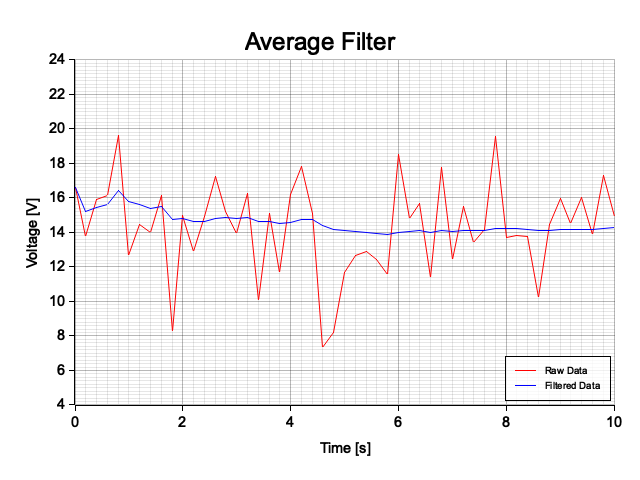
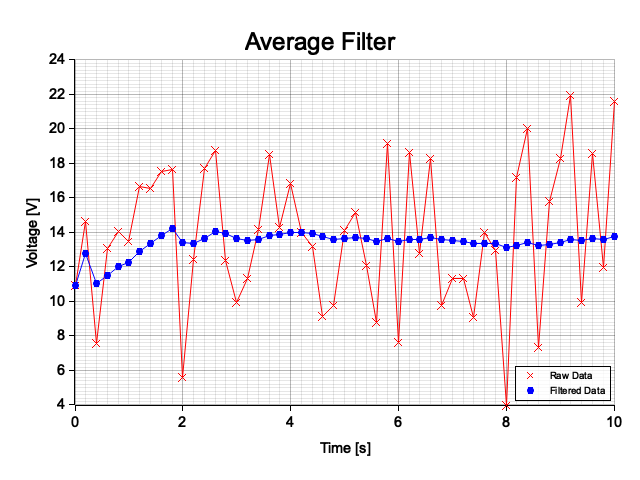
Plot with points and legend

diff --git a/src/main.rs b/src/main.rs
@@ -29,7 +29,7 @@ fn test_average_filter() {
         filtered_data_V.push(avg_filt.get_average());
     }
 
-    // plotters graphing configuration
+    // Build and save graph using plotters crate
     let root = BitMapBackend::new("./plots/AverageFilter.png", (640, 480)).into_drawing_area();
     let _ = root.fill(&WHITE);
 
@@ -45,9 +45,8 @@ fn test_average_filter() {
     // Configure mesh with axis labels and grid lines
     chart
         .configure_mesh()
-        // We can customize the maximum number of labels allowed for each axis
-        .x_labels(10)
-        .y_labels(11)
+        .x_labels(10) // increments of 1
+        .y_labels(11) // increments of 2
         .x_desc("Time [s]") // Label for the x-axis
         .y_desc("Voltage [V]") // Label for the y-axis
         .x_label_style(("sans-serif", 18).into_font())
@@ -57,7 +56,7 @@ fn test_average_filter() {
         .draw()
         .expect("configure_mesh() failed");
 
-    // Plot raw data with a red line
+    // Plot the raw data as a red line, then add points
     chart
         .draw_series(LineSeries::new(
             times_s
@@ -66,11 +65,22 @@ fn test_average_filter() {
                 .map(|(&x_val, &y_val)| (x_val, y_val)),
             &RED,
         ))
-        .expect("draw_series() raw data failed")
-        .label("Raw Data")
-        .legend(|(x, y)| PathElement::new(vec![(x, y), (x + 20, y)], &RED));
+        .expect("draw_series() LineSeries raw data failed");
 
-    // Plot filtered data with a blue line
+    chart
+        .draw_series(PointSeries::of_element(
+            times_s.iter().zip(raw_data_V.iter()).map(|(&x, &y)| (x, y)),
+            4, // Size of the points
+            &RED,
+            &|coord, size, style| {
+                return EmptyElement::at(coord) + Cross::new((0, 0), size, style.filled());
+            },
+        ))
+        .expect("draw_series() PointSeries raw data failed")
+        .label("Raw Data")
+        .legend(|(x, y)| EmptyElement::at((x + 10, y)) + Cross::new((0, 0), 3, RED.filled()));
+
+    // Plot the filtered data as a blue line, then add points
     chart
         .draw_series(LineSeries::new(
             times_s
@@ -79,13 +89,28 @@ fn test_average_filter() {
                 .map(|(&x_val, &y_val)| (x_val, y_val)),
             &BLUE,
         ))
-        .expect("draw_series() filtered data failed")
+        .expect("draw_series() LineSeries filtered data failed");
+
+    chart
+        .draw_series(PointSeries::of_element(
+            times_s
+                .iter()
+                .zip(filtered_data_V.iter())
+                .map(|(&x, &y)| (x, y)),
+            3, // Size of the points
+            &BLUE,
+            &|coord, size, style| {
+                return EmptyElement::at(coord) + Circle::new((0, 0), size, style.filled());
+            },
+        ))
+        .expect("draw_series() PointSeries raw data failed")
         .label("Filtered Data")
-        .legend(|(x, y)| PathElement::new(vec![(x, y), (x + 20, y)], &BLUE));
+        .legend(|(x, y)| EmptyElement::at((x + 10, y)) + Circle::new((0, 0), 3, BLUE.filled()));
 
     chart
         .configure_series_labels()
         .position(SeriesLabelPosition::LowerRight)
+        .margin(5)
         .background_style(&WHITE.mix(0.8))
         .border_style(&BLACK)
         .draw()
@@ -93,7 +118,7 @@ fn test_average_filter() {
 
     let _ = root.present();
 
-    println!("Average Filter test plot written: ./plots/AverageFilter.png");
+    println!("Average filter plot written: ./plots/AverageFilter.png");
 }
 
 fn main() {

diff --git a/src/sensor_spoofs.rs b/src/sensor_spoofs.rs
@@ -4,8 +4,8 @@ use rand_distr::{Distribution, Normal};
 pub fn get_volt() -> f64 {
     let mut rng = thread_rng(); // Create a random number generator
 
-    // Create a normal distribution with mean = 0 and standard deviation = 3
-    let normal = Normal::new(0.0, 3.0).unwrap();
+    // Create a normal distribution with mean = 0 and standard deviation = 4
+    let normal = Normal::new(0.0, 4.0).unwrap();
 
     // Get a random number from the distribution
     let w = normal.sample(&mut rng);
